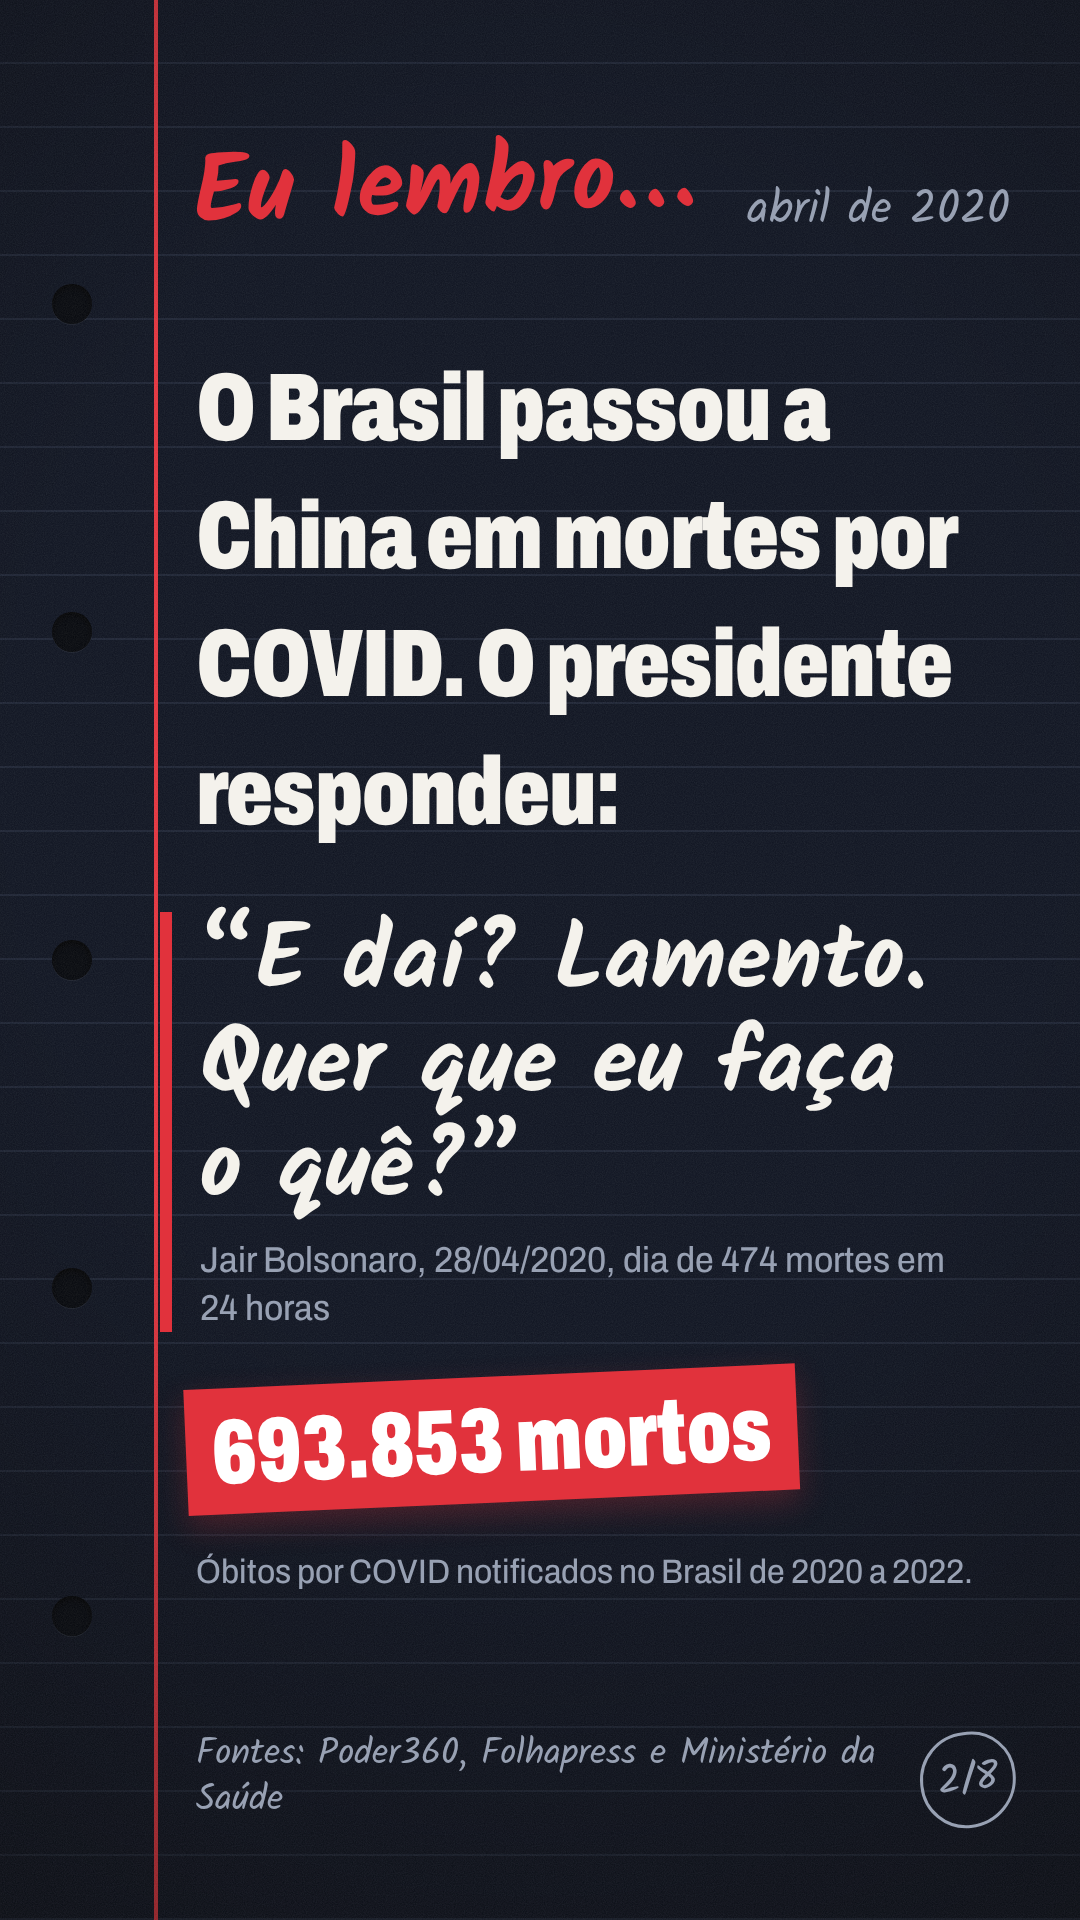
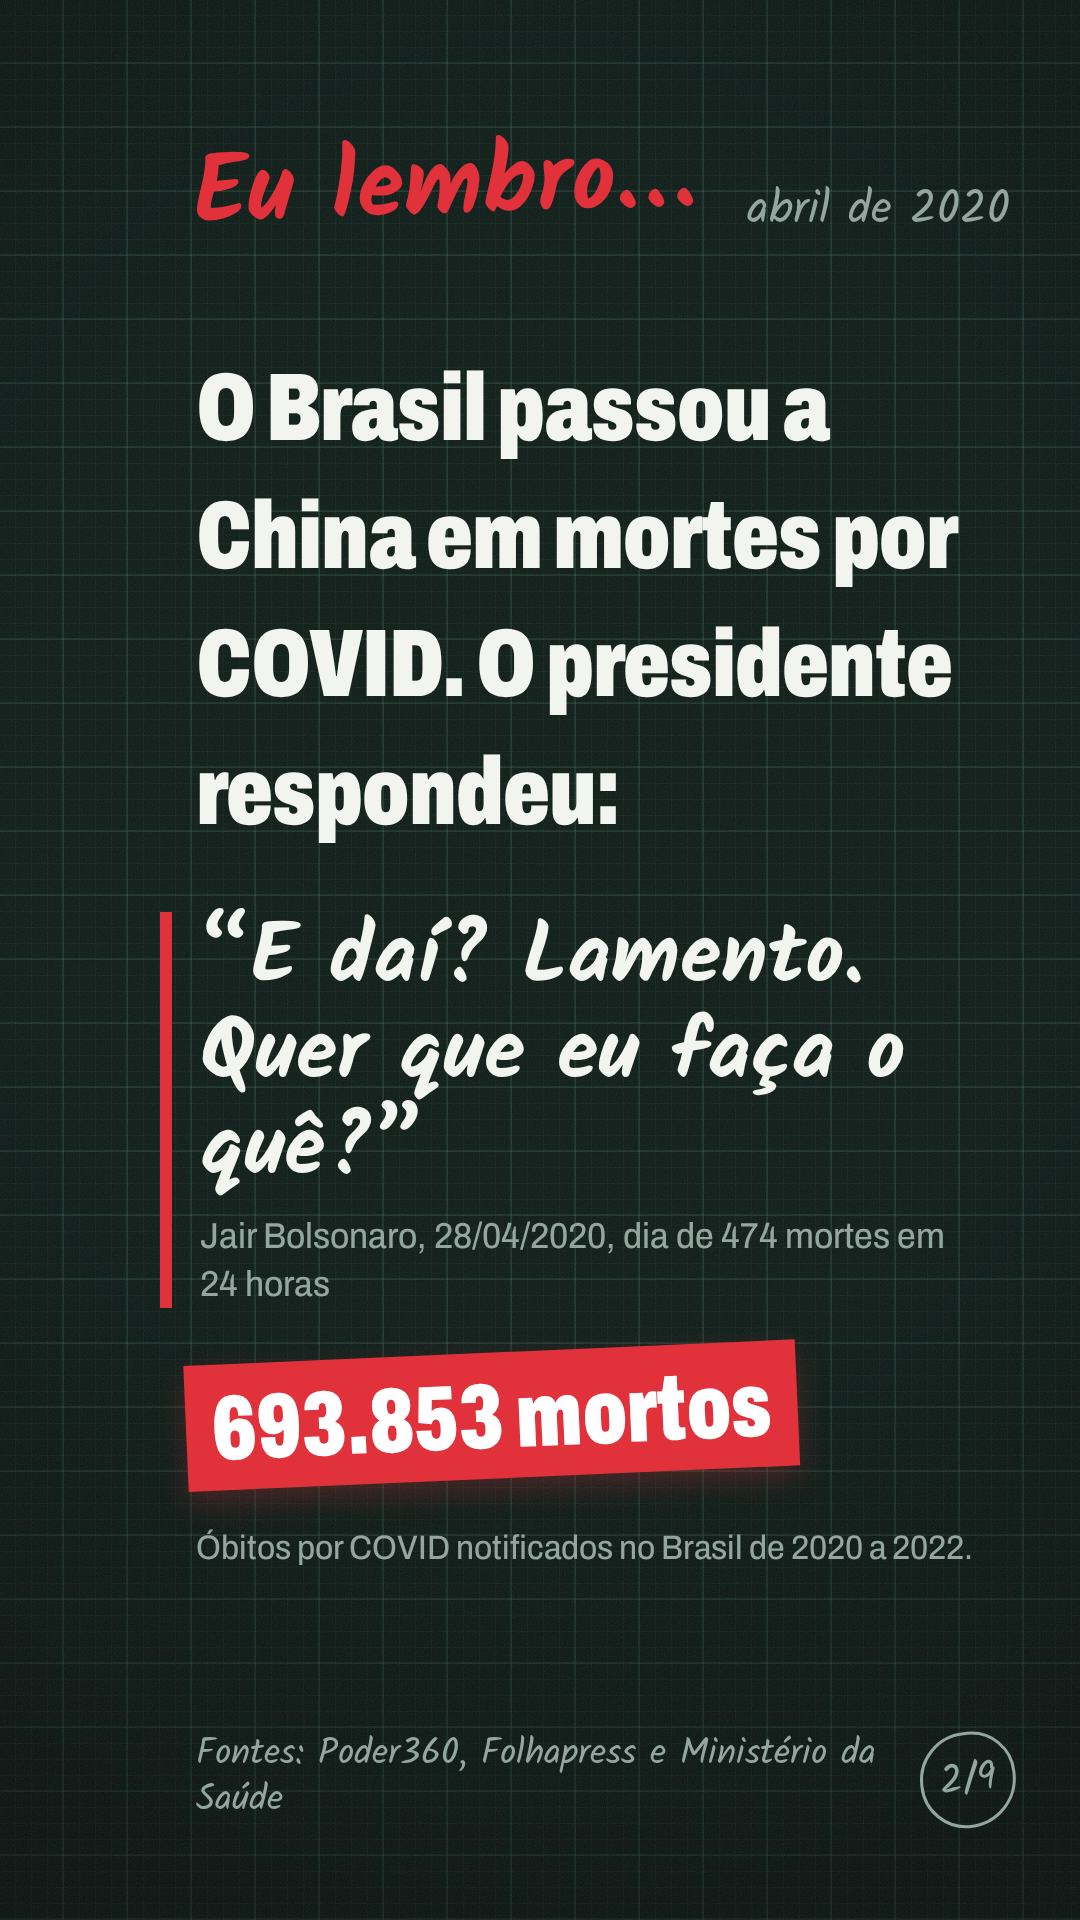
novo layout para o story da saude

Changed region(s): [[0.1222, 0.0, 0.8861, 1.0], [0.8556, 0.9062, 0.9167, 0.9375]]

diff --git a/eu-lembro/codigo/gerar_saude.py b/eu-lembro/codigo/gerar_saude.py
@@ -53,12 +53,38 @@ p + p { margin-top: 0; }
 .grande { font-family: 'Kalam'; font-weight: 700; font-size: 240px; line-height: .95; color: var(--giz); transform: rotate(-3deg); transform-origin: left bottom; margin-top: 40px; }
 .grande em { font-style: normal; color: var(--sangue); }
 .capa h1 { font-size: 96px; }
-.cita.gigante { font-size: 92px; line-height: 104px; border-left-width: 12px; margin-top: 56px; }
+.cita.gigante { font-size: 84px; line-height: 96px; border-left-width: 12px; margin-top: 56px; }
 .cita.gigante small { font-size: 36px; }
 .lista p { margin-top: 0; }
 .lista p b { font-weight: 800; color: var(--giz); }
 .risco { display: inline; background: var(--sangue); color: #fff; padding: 0 10px; margin-left: -10px; box-decoration-break: clone; -webkit-box-decoration-break: clone; }
 """
+
+# --- formato de saída -------------------------------------------------------
+# whatsapp: 1080x1920 (padrão)
+# instagram-stories: 1080x1920 com margens livres para a interface do Instagram
+# instagram-carrossel: 1080x1350 (4:5), para posts no feed
+import os
+FORMATO = os.environ.get("FORMATO", "whatsapp")
+if FORMATO == "instagram-stories":
+    _z = 0.85
+    CSS += f"""
+.pg {{ zoom: {_z}; width: {1080/_z:.1f}px; height: {1920/_z:.1f}px; --topo: 470px; }}
+.cab {{ top: 310px; }}
+.fonte {{ bottom: 400px; }}
+.pag {{ bottom: 396px; }}
+p {{ max-width: 1000px; }}
+"""
+elif FORMATO == "instagram-carrossel":
+    _z = 0.8
+    CSS += f"""
+.pg {{ zoom: {_z}; width: {1080/_z:.1f}px; height: {1350/_z:.1f}px; }}
+p {{ max-width: 1080px; }}
+"""
+if FORMATO != "whatsapp":
+    OUT = OUT.parent / f"{OUT.name}-{FORMATO}"
+    OUT.mkdir(parents=True, exist_ok=True)
+# -----------------------------------------------------------------------------
 
 def furos():
     return '<div class="furos">' + '<i></i>' * 5 + '</div>'
@@ -81,14 +107,14 @@ def cartao(n, total, data, titulo, numero=None, textos=(), citacao=None, fonte="
       <div class="corpo">{''.join(partes)}</div>
       <div class="fonte">{fonte}</div><div class="pag">{n}/{total}</div></section>"""
 
-T = 8
+T = 9
 paginas = []
 
 paginas.append(f"""<section class="pg capa">{furos()}
   <div class="corpo" style="top: 330px">
     <div class="grande">Eu<br>lembro.</div>
     <h1 style="margin-top: 112px">O que aconteceu com a saúde no Brasil entre <span class="risco">2019 e 2022</span>.</h1>
-    <p>Seis fatos. Todos com fonte.</p>
+    <p>Sete fatos. Todos com fonte.</p>
   </div>
   <div class="pag">1/{T}</div></section>""")
 
@@ -110,23 +136,29 @@ paginas.append(cartao(3, T, "2020 → 2021",
     fonte="Fontes: Folhapress, Jovem Pan, Poder360 e TCU"))
 
 paginas.append(cartao(4, T, "janeiro de 2021",
-    "Manaus ficou sem oxigênio.",
-    numero="7 dias",
-    textos=["Foi o tempo entre o alerta e a falta de oxigênio nos hospitais.",
-            "No mesmo mês, o Ministério da Saúde lançou em Manaus um aplicativo que receitava cloroquina.",
-            '<p class="ctx">O TCU classificou a conduta do Ministério como “reativa”, sem apontar dolo.</p>'],
-    ordem="nt",
-    fonte="Fontes: TCU, Poder360 e Correio Braziliense"))
+    "Em Manaus, pacientes morreram sem ar nos hospitais.", h1=96,
+    citacao=("“Os hospitais de Manaus viraram câmaras de asfixia.”", "Jesem Orellana, pesquisador da Fiocruz, 14/01/2021"),
+    citaclasse="cita gigante",
+    textos=["O Ministério da Saúde foi alertado 7 dias antes. No mesmo mês, lançou ali um aplicativo que receitava cloroquina."],
+    ordem="ct",
+    fonte="Fontes: TCU, Fiocruz (Radis), Folhapress, Poder360 e Correio Braziliense"))
 
 paginas.append(cartao(5, T, "2020",
     "Três ministros da Saúde em um ano de pandemia.",
     textos=['<div class="lista" style="margin-top: 64px"><p><b>Mandetta</b>, médico: demitido em abril, depois de divergir sobre a condução da pandemia.</p>'
             '<p style="margin-top: 32px"><b>Teich</b>, médico: pediu demissão em 28 dias.</p>'
             '<p style="margin-top: 32px"><b>Pazuello</b>, general do Exército: em 5 dias, assinou o protocolo da cloroquina.</p></div>'],
-    numero="O terceiro nem era médico", menor=True, ordem="tn",
+    numero="O terceiro sequer era profissional da saúde", menor=True, ordem="tn",
     fonte="Fontes: Agência Brasil, G1, Poder360 e Folhapress"))
 
-paginas.append(cartao(6, T, "fev. de 2021",
+paginas.append(cartao(6, T, "ago. de 2020",
+    "A Pfizer ofereceu 70 milhões de doses. O governo recusou.", h1=96,
+    textos=["As primeiras doses poderiam ter chegado em dezembro de 2020. Chegaram em abril de 2021, quatro meses depois."],
+    numero="Até 145 mil mortes evitáveis", menor=True, ordem="tn",
+    depois=['<p class="ctx">Estimativa de pesquisadores apresentada à CPI: de 95 mil a 145 mil mortes pelo atraso na compra de vacinas. Segundo a CPI, 53 e-mails da Pfizer ficaram sem resposta. O governo alegou exigências contratuais da empresa.</p>'],
+    fonte="Fontes: BBC News Brasil, Folhapress, Estadão, Poder360 e Jovem Pan"))
+
+paginas.append(cartao(7, T, "fev. de 2021",
     "A Covaxin foi a vacina mais cara comprada pelo governo.", h1=100,
     numero="US$&nbsp;15 por dose",
     textos=["Pfizer e Janssen saíram por US$ 10. O contrato de R$ 1,6 bilhão foi assinado antes do aval da Anvisa.",
@@ -135,7 +167,7 @@ paginas.append(cartao(6, T, "fev. de 2021",
     ordem="nt",
     fonte="Fontes: Estadão, Poder360, InfoMoney e CNN Brasil"))
 
-paginas.append(cartao(7, T, "out. de 2020",
+paginas.append(cartao(8, T, "out. de 2020",
     "Meses antes, Flávio Bolsonaro levou o dono da empresa da Covaxin ao presidente do BNDES.", h1=92,
     numero="O filho do presidente", menor=True,
     textos=["Francisco Maximiano é dono da Precisa Medicamentos, que intermediou a compra da vacina indiana.",
@@ -152,13 +184,27 @@ paginas.append(f"""<section class="pg capa">{furos()}
   </div>
   <div class="pag">{T}/{T}</div></section>""")
 
+
+# --- paleta "prontuário" (identidade própria do story de Saúde) --------------
+CSS += """
+:root { --fundo: #0B1915; --pauta: rgba(120,210,170,.10); --margem: #E1323C; --giz: #F1F4EF; --cinza: #93A79E; --sangue: #E1323C; }
+.pg { background-image:
+    radial-gradient(ellipse 120% 80% at 50% 40%, transparent 40%, rgba(0,0,0,.55) 100%),
+    repeating-linear-gradient(90deg, transparent 0, transparent 62px, var(--pauta) 62px, var(--pauta) 64px),
+    repeating-linear-gradient(180deg, transparent 0, transparent 62px, var(--pauta) 62px, var(--pauta) 64px),
+    repeating-linear-gradient(90deg, transparent 0, transparent 15px, rgba(120,210,170,.04) 15px, rgba(120,210,170,.04) 16px),
+    repeating-linear-gradient(180deg, transparent 0, transparent 15px, rgba(120,210,170,.04) 15px, rgba(120,210,170,.04) 16px);
+  background-size: auto; background-position: 0 0; background-repeat: repeat; }
+.pg::before { display: none; }
+.furos { display: none; }
+"""
 doc = f"<!doctype html><html lang='pt-BR'><head><meta charset='utf-8'><style>{CSS}</style></head><body>{''.join(paginas)}</body></html>"
 (BASE / "stories_saude.html").write_text(doc, encoding="utf-8")
 
-nomes = ["01-capa", "02-mortes-e-dai", "03-cloroquina", "04-manaus", "05-ministros", "06-covaxin", "07-covaxin-flavio", "08-fechamento"]
+nomes = ["01-capa", "02-mortes-e-dai", "03-cloroquina", "04-manaus", "05-ministros", "06-pfizer", "07-covaxin", "08-covaxin-flavio", "09-fechamento"]
 with sync_playwright() as p:
     b = p.chromium.launch()
-    pg = b.new_page(viewport={"width": 1080, "height": 1920}, device_scale_factor=1)
+    pg = b.new_page(viewport={"width": 1400, "height": 2400}, device_scale_factor=1)
     pg.goto((BASE / "stories_saude.html").as_uri())
     pg.wait_for_timeout(600)
     for i, el in enumerate(pg.query_selector_all("section.pg")):

diff --git a/eu-lembro/codigo/gerar_educacao.py b/eu-lembro/codigo/gerar_educacao.py
@@ -56,6 +56,32 @@ p + p { margin-top: 0; }
 .risco { display: inline; background: var(--sangue); color: #fff; padding: 0 10px; margin-left: -10px; box-decoration-break: clone; -webkit-box-decoration-break: clone; }
 """
 
+# --- formato de saída -------------------------------------------------------
+# whatsapp: 1080x1920 (padrão)
+# instagram-stories: 1080x1920 com margens livres para a interface do Instagram
+# instagram-carrossel: 1080x1350 (4:5), para posts no feed
+import os
+FORMATO = os.environ.get("FORMATO", "whatsapp")
+if FORMATO == "instagram-stories":
+    _z = 0.85
+    CSS += f"""
+.pg {{ zoom: {_z}; width: {1080/_z:.1f}px; height: {1920/_z:.1f}px; --topo: 470px; }}
+.cab {{ top: 310px; }}
+.fonte {{ bottom: 400px; }}
+.pag {{ bottom: 396px; }}
+p {{ max-width: 1000px; }}
+"""
+elif FORMATO == "instagram-carrossel":
+    _z = 0.8
+    CSS += f"""
+.pg {{ zoom: {_z}; width: {1080/_z:.1f}px; height: {1350/_z:.1f}px; }}
+p {{ max-width: 1080px; }}
+"""
+if FORMATO != "whatsapp":
+    OUT = OUT.parent / f"{OUT.name}-{FORMATO}"
+    OUT.mkdir(parents=True, exist_ok=True)
+# -----------------------------------------------------------------------------
+
 def furos():
     return '<div class="furos">' + '<i></i>' * 5 + '</div>'
 
@@ -142,7 +168,7 @@ doc = f"<!doctype html><html lang='pt-BR'><head><meta charset='utf-8'><style>{CS
 nomes = ["01-capa", "02-universidades", "03-bloqueio", "04-reitores", "05-ministro-curriculo", "06-internet-veto", "07-fechamento"]
 with sync_playwright() as p:
     b = p.chromium.launch()
-    pg = b.new_page(viewport={"width": 1080, "height": 1920}, device_scale_factor=1)
+    pg = b.new_page(viewport={"width": 1400, "height": 2400}, device_scale_factor=1)
     pg.goto((BASE / "stories.html").as_uri())
     pg.wait_for_timeout(600)
     for i, el in enumerate(pg.query_selector_all("section.pg")):

diff --git a/eu-lembro/fontes/saude.md b/eu-lembro/fontes/saude.md
@@ -25,6 +25,11 @@ Data de acesso das fontes de imprensa: 22/10/2026. Nível de evidência conforme
 
 ## 04 · Manaus (jan/2021)
 
+- **Fato:** pacientes morreram por falta de oxigênio nos hospitais de Manaus e de cidades do interior a partir de 14/01/2021. O pesquisador Jesem Orellana (Fiocruz Amazônia) resumiu: "Os hospitais de Manaus viraram câmaras de asfixia".
+  - Fiocruz, revista Radis (A/B, artigo institucional): https://www.arca.fiocruz.br/handle/icict/46768
+  - Folhapress, via A Gazeta (D, ao menos 20 mortes em quatro cidades do interior): https://www.agazeta.com.br/brasil/com-avanco-de-casos-de-covid-oxigenio-falta-em-quatro-cidades-do-amazonas-0121
+  - Metrópoles (D): https://www.metropoles.com/brasil/em-24h-falta-de-oxigenio-mata-ao-menos-13-pessoas-em-cidades-do-para-e-do-amazonas
+
 - **Fato:** 7 dias entre o alerta (07/01/2021) e a falta de oxigênio. O TCU classificou a conduta do Ministério como "reativa", sem apontar dolo.
   - Fonte (B): TCU, conforme o Relatório técnico.
 - **Fato:** no mesmo mês, o Ministério lançou em Manaus o aplicativo TrateCOV, que sugeria cloroquina e ivermectina. Foi retirado do ar em 21/01/2021, após pedido do CFM. O Ministério alegou que o sistema tinha sido "invadido e ativado indevidamente".
@@ -39,7 +44,23 @@ Data de acesso das fontes de imprensa: 22/10/2026. Nível de evidência conforme
   - Fonte: Relatório técnico (rubrica de perfil dos ministros e imprensa com 2 veículos).
   - Protocolo assinado por Pazuello, anunciado na véspera: ver as fontes do cartão 03.
 
-## 06 · Contrato da Covaxin (fev/2021)
+## 06 · Pfizer: oferta recusada (ago/2020)
+
+- **Fato:** em agosto de 2020, o governo recusou a compra de 70 milhões de doses da Pfizer a US$ 10 cada. A primeira oferta é de 15/08/2020, confirmada pelo executivo da Pfizer Carlos Murillo em depoimento à CPI.
+  - Estado de Minas (D): https://www.em.com.br/app/noticia/politica/2021/06/04/interna_politica,1273543/brasil-ignorou-53-e-mails-da-pfizer-diz-vice-presidente-da-cpi-da-covid.shtml
+  - Diário de Pernambuco (D): https://www.diariodepernambuco.com.br/noticia/politica/2021/06/randolfe-80-mil-brasileiros-morreram-por-omissao-direta-de-bolsonaro.html
+- **Fato:** as primeiras doses poderiam ter chegado em dezembro de 2020 (o ex-secretário de Comunicação do governo, Fábio Wajngarten, disse o mesmo à Veja); chegaram em 29/04/2021.
+  - BBC News Brasil (D): https://www.bbc.com/portuguese/brasil-56930584
+- **Fato:** pesquisadores estimaram, em depoimento à CPI (24/06/2021), de 95,5 mil (Pedro Hallal, UFPel) a 145 mil (estudo da USP) mortes pelo atraso na compra de vacinas. São estimativas, não decisão de órgão oficial.
+  - Folhapress, via Banda B (D): https://www.bandab.com.br/nacional/epidemiologista-afirma-a-cpi-da-covid-que-400-mil-mortes-poderiam-ter-sido-evitadas/amp/
+  - Jovem Pan (D): https://jovempan.com.br/politica/na-cpi-da-covid-19-especialistas-dizem-que-isolamento-social-poderia-ter-evitado-120-mil-mortes/
+- **Afirmação da CPI:** segundo o vice-presidente da CPI, Randolfe Rodrigues, 53 e-mails da Pfizer ficaram sem resposta. O ex-secretário-executivo Elcio Franco contestou, dizendo que a Pfizer era redundante e que parte das mensagens respondia a pedidos do ministério.
+  - Estadão (D): https://www.estadao.com.br/politica/ao-todo-53-e-mails-da-pfizer-ao-governo-ficaram-sem-resposta-diz-randolfe/
+  - Poder360 (D, versão de Elcio Franco): https://www.poder360.com.br/congresso/pfizer-era-redundante-nos-e-mails-diz-elcio-franco-a-cpi-da-covid/
+- **Contexto no cartão:** o governo alegou exigências contratuais da Pfizer, como pagamento antecipado sem garantias.
+  - Jovem Pan (D): https://jovempan.com.br/politica/ao-vivo-cpi-da-covid-19-ouve-elcio-franco-filho-acompanhe/
+
+## 07 · Contrato da Covaxin (fev/2021)
 
 - **Fato:** US$ 15 por dose, a mais cara das vacinas compradas; Pfizer e Janssen saíram por US$ 10. Contrato de R$ 1,6 bi assinado antes do aval da Anvisa.
   - Estadão, via O Povo (D): https://www.opovo.com.br/noticias/politica/2021/06/22/amp/vacina-indiana-ficou-1-000--mais-cara-em-seis-meses.html
@@ -49,7 +70,7 @@ Data de acesso das fontes de imprensa: 22/10/2026. Nível de evidência conforme
 - **Contexto no cartão:** o contrato foi cancelado sem pagamento. A fabricante afirma que o preço estava na menor faixa praticada no mundo.
   - InfoMoney (D): https://www.infomoney.com.br/economia/venda-da-covaxin-ao-brasil-teve-melhores-condicoes-do-que-para-outros-paises-afirma-farmaceutica-indiana-bharat-biotech/
 
-## 07 · Flávio Bolsonaro e o dono da Precisa (out/2020)
+## 08 · Flávio Bolsonaro e o dono da Precisa (out/2020)
 
 - **Fato:** em 13/10/2020, Flávio Bolsonaro participou de videoconferência entre Francisco Maximiano, dono da Precisa Medicamentos (intermediária da Covaxin), e o presidente do BNDES. Flávio confirmou ter intermediado o contato, diz que o tema foi outra empresa de Maximiano e nega ligação com a vacina.
   - Poder360 (D): https://www.poder360.com.br/governo/flavio-bolsonaro-teve-reuniao-com-dono-da-precisa-no-bndes-em-2020/
@@ -61,7 +82,7 @@ Data de acesso das fontes de imprensa: 22/10/2026. Nível de evidência conforme
 
 ## Pendências
 
-- [ ] Links das fontes primárias dos fatos que hoje citam o relatório técnico de Saúde: óbitos por COVID (cartão 02), anulação das notas pelo TCU (03), Manaus (04), ministros (05) e inidoneidade da intermediária (07).
+- [ ] Links das fontes primárias dos fatos que hoje citam o relatório técnico de Saúde: óbitos por COVID (cartão 02), anulação das notas pelo TCU (03), Manaus (04), ministros (05) e inidoneidade da intermediária (08).
 
-- [ ] Links diretos das matérias sobre a fatura da Madison Biotech (US$ 45 milhões adiantados), cartão 06.
+- [ ] Links diretos das matérias sobre a fatura da Madison Biotech (US$ 45 milhões adiantados), cartão 07.
 - [ ] Links diretos das matérias sobre a saída de Mandetta e Teich, cartão 05.

diff --git a/eu-lembro/README.md b/eu-lembro/README.md
@@ -1,6 +1,16 @@
 # Eu lembro: stories sobre educação e saúde (2019–2022)
 
-Dois stories para o Status do WhatsApp (1080×1920) com fatos documentados sobre educação e saúde no governo Jair Bolsonaro (2019–2022). Cada cartão traz as suas fontes, e cada fonte está listada com link na pasta [`fontes/`](fontes/).
+Dois stories para o Status do WhatsApp e o Instagram com fatos documentados sobre educação e saúde no governo Jair Bolsonaro (2019–2022). Cada cartão traz as suas fontes, e cada fonte está listada com link na pasta [`fontes/`](fontes/).
+
+## Formatos
+
+| Pasta | Formato | Uso |
+|---|---|---|
+| `stories/educacao/`, `stories/saude/` | 1080×1920 | Status do WhatsApp |
+| `stories/educacao-instagram-stories/`, `stories/saude-instagram-stories/` | 1080×1920 | Stories do Instagram, com margens livres no topo e na base para a interface do app |
+| `stories/educacao-instagram-carrossel/`, `stories/saude-instagram-carrossel/` | 1080×1350 (4:5) | Carrossel no feed do Instagram |
+
+As tabelas abaixo usam os arquivos do WhatsApp; os nomes dos arquivos são os mesmos nas três versões.
 
 ## Stories
 
@@ -16,18 +26,19 @@ Dois stories para o Status do WhatsApp (1080×1920) com fatos documentados sobre
 | 6 | [06-internet-veto.png](stories/educacao/06-internet-veto.png) | Veto à internet para 18,6 milhões de alunos e 1,6 milhão de professores na pandemia (mar/2021) |
 | 7 | [07-fechamento.png](stories/educacao/07-fechamento.png) | Fechamento |
 
-### Saúde (8 cartões)
+### Saúde (9 cartões)
 
 | # | Arquivo | Fato |
 |---|---|---|
 | 1 | [01-capa.png](stories/saude/01-capa.png) | Capa |
 | 2 | [02-mortes-e-dai.png](stories/saude/02-mortes-e-dai.png) | "E daí? Lamento. Quer que eu faça o quê?" e os óbitos por COVID 2020–2022 |
 | 3 | [03-cloroquina.png](stories/saude/03-cloroquina.png) | Falas do presidente sobre remédios sem eficácia contra a COVID |
-| 4 | [04-manaus.png](stories/saude/04-manaus.png) | Falta de oxigênio em Manaus e o aplicativo TrateCOV (jan/2021) |
-| 5 | [05-ministros.png](stories/saude/05-ministros.png) | Três ministros da Saúde em 2020 |
-| 6 | [06-covaxin.png](stories/saude/06-covaxin.png) | Contrato da Covaxin: preço, aval da Anvisa e fatura de pagamento antecipado |
-| 7 | [07-covaxin-flavio.png](stories/saude/07-covaxin-flavio.png) | Reunião do dono da Precisa com o presidente do BNDES, levada por Flávio Bolsonaro |
-| 8 | [08-fechamento.png](stories/saude/08-fechamento.png) | Fechamento |
+| 4 | [04-manaus.png](stories/saude/04-manaus.png) | Em Manaus, pacientes morreram sem ar nos hospitais; alerta 7 dias antes; aplicativo TrateCOV (jan/2021) |
+| 5 | [05-ministros.png](stories/saude/05-ministros.png) | Três ministros da Saúde em 2020; o terceiro sequer era profissional da saúde |
+| 6 | [06-pfizer.png](stories/saude/06-pfizer.png) | Oferta de 70 milhões de doses da Pfizer recusada (ago/2020); estimativa de 95 mil a 145 mil mortes evitáveis |
+| 7 | [07-covaxin.png](stories/saude/07-covaxin.png) | Contrato da Covaxin: preço, aval da Anvisa e fatura de pagamento antecipado |
+| 8 | [08-covaxin-flavio.png](stories/saude/08-covaxin-flavio.png) | Reunião do dono da Precisa com o presidente do BNDES, levada por Flávio Bolsonaro |
+| 9 | [09-fechamento.png](stories/saude/09-fechamento.png) | Fechamento |
 
 ## Regras de checagem
 
@@ -56,8 +67,10 @@ pip install playwright
 playwright install chromium
 cd codigo
 ./baixar_fontes_tipograficas.sh
-python3 gerar_educacao.py   # gera stories/educacao/*.png
-python3 gerar_saude.py      # gera stories/saude/*.png
+python3 gerar_educacao.py   # gera stories/educacao/*.png (WhatsApp)
+python3 gerar_saude.py      # gera stories/saude/*.png (WhatsApp)
+FORMATO=instagram-stories   python3 gerar_educacao.py
+FORMATO=instagram-carrossel python3 gerar_educacao.py
 ```
 
 Os textos de cada cartão estão no próprio script. As fontes tipográficas (Kalam e Archivo) têm licença SIL OFL 1.1 e não são redistribuídas aqui; o script as baixa do repositório oficial do Google Fonts.
